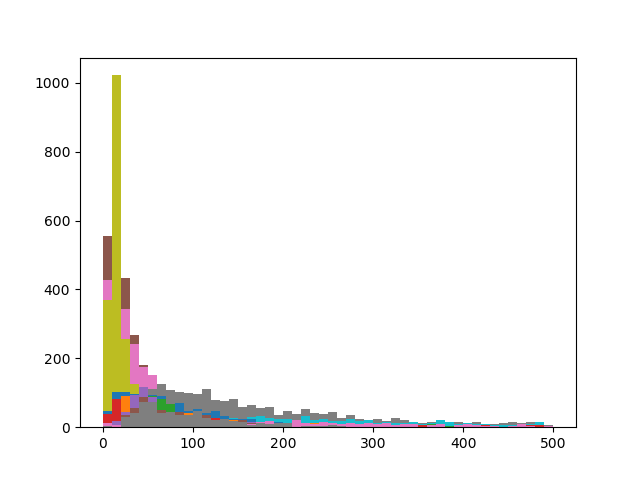
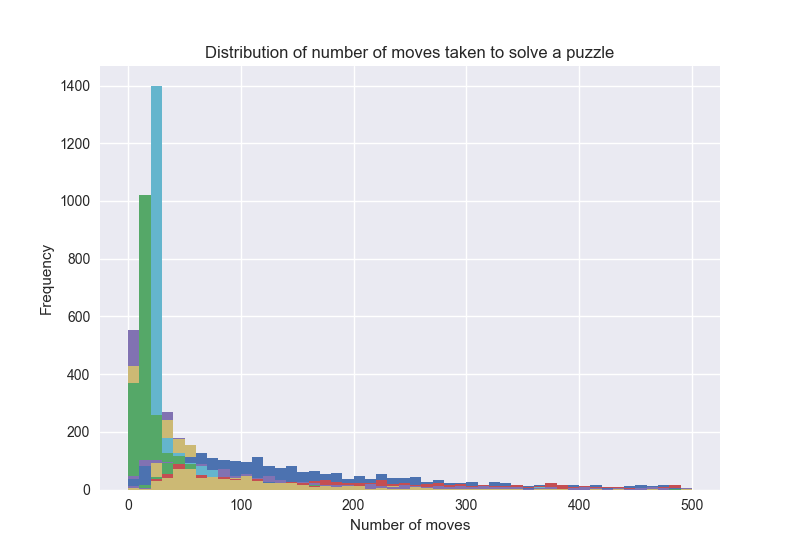
Beautify graphs

diff --git a/rna-prediction/puzzle-info.py b/rna-prediction/puzzle-info.py
@@ -12,6 +12,7 @@ import ast
 import matplotlib.pyplot as plt
 import numpy as np
 import pickle
+import seaborn; seaborn.set()
 
 # filepath = os.getcwd() + '/movesets/move-set-11-14-2016.txt'
 new_ms = os.getcwd() + '/movesets/moveset6-22a.txt'
@@ -26,7 +27,7 @@ with open(os.getcwd()+'/movesets/teaching-puzzle-ids.txt') as f:
 # you may also want to remove whitespace characters like `\n` at the end of each line
 content = [x.strip() for x in content]
 content = [int(x) for x in content]
-progression = [6502966,6502968,6502973,6502976,6502984,6502985, \
+progression = [6502963,6502966,6502968,6502969,6502970,6502973,6502976,6502984,6502985, \
                 6502994,6502995,6502996,6502997,6502998,6502999,6503000] # 6502957
 content.extend(progression)
 l = range(501)
@@ -44,9 +45,9 @@ for pid in content:
     print 'done with pid %i' % pid
     plt.hist(total[str(pid)],bins=l[::10])
 
-plt.savefig('/Users/rohankoodli/Desktop/allsinglestate.png')
-plt.show()
-#total = pickle.load(open(os.getcwd()+'num_moves','rb'))
+#plt.savefig('/Users/rohankoodli/Desktop/allsinglestate.png')
+#pickle.dump(total, open(os.getcwd()+'/pickles/num_moves'+str(pid),'wb'))
+#total = pickle.load(open(os.getcwd()+'/pickles/num_moves6503000','rb'))
 
 # plt.hist(total['6502997'],bins=l[::10])
 # plt.hist(total['6502995'],bins=l[::10])
@@ -59,11 +60,13 @@ plt.show()
 # plt.hist(total['6502968'],bins=l[::10]) # fig 2
 # plt.savefig('/Users/rohankoodli/Desktop/Figure_2.png')
 
-plt.hist(total['6502969'],bins=l[::10])
-plt.hist(total['6502970'],bins=l[::10])
-plt.hist(total['6502976'],bins=l[::10])
-plt.savefig('/Users/rohankoodli/Desktop/Figure_3.png')
-
+# plt.hist(total['6502969'],bins=l[::10])
+# plt.hist(total['6502970'],bins=l[::10])
+# plt.hist(total['6502976'],bins=l[::10])
+plt.title('Distribution of number of moves taken to solve a puzzle')
+plt.xlabel('Number of moves')
+plt.ylabel('Frequency')
+plt.savefig('/Users/rohankoodli/Desktop/allsinglestate.png')
 plt.show()
 
 def num_puzzles():
